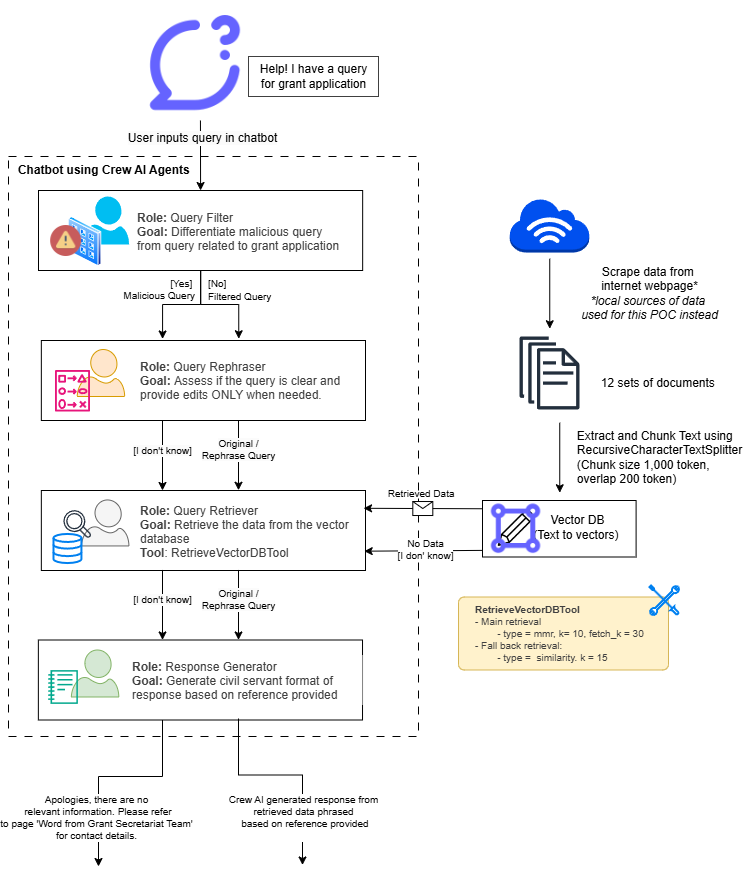
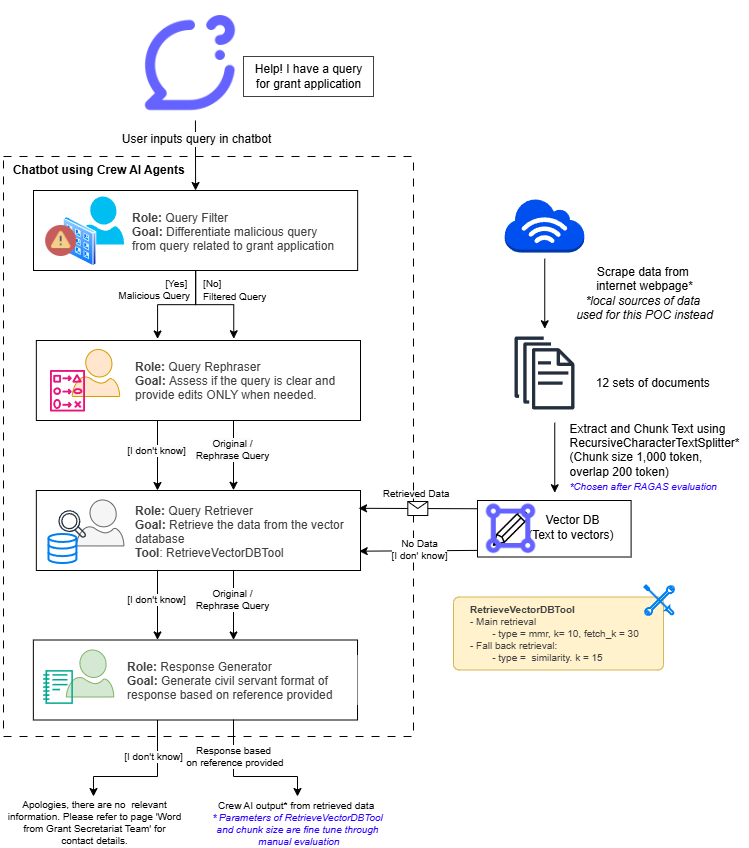
Amended the diagrams

Changed region(s): [[0.0, 0.0, 0.9826, 1.0], [0.7677, 0.3066, 0.9519, 0.3986], [0.7984, 0.4292, 0.9519, 0.4599]]

diff --git a/pages/1_About us.py b/pages/1_About us.py
@@ -34,21 +34,22 @@ with st.expander("📋 Project Scope"):
         ⚙ **Step 2: Evaluation and Selection of LLM**:
                           
         - Fine-tuning parameters of vector database such as chunk size to improve accuracy and efficiency           
-        - Using RAGAS to select the best retrieval combination (refer to more details in assessment section)
+        - Using RAGAS to select the best retrieval combination (refer to more details in "Evaluation of Retrieval Method and Chatbot" section)
                           
         🔐 **Step 3: LLM Safety and Accuracy Assurance**:
                           
+        - Prevent malicious content generation, ensure information accuracy and generate responses are replied in civil servant tone
         - Integrating Crew AI agents for safe and reliable information retrieval. The four Crew AI are   
             (a) **Query filter** - Differentiate malicious query from query related to grant applicaiton   
             (b) **Query Rephraser** - Assess of the query is clear and provide edits ONLY when needed   
             (c) **Query Retriever** - Retrieve the data from the vector database   
             (d) **Response Generator** - Generate civil servant format of response based on reference provided           
-        - Prevent malicious content generation, ensure information accuracy and generate responses are replied in civil servant tone
+        
              
         🛠 **Step 4: Quality Assurance and Testing**:
                           
         - Testing chatbot responses across various query types           
-        - Validating performance on complex and nuanced questions (refer to more details in assessment section)          
+        - Validating performance on complex and nuanced questions (refer to more details in "Evaluation of Retrieval Method and Chatbot" section)          
         - Enhancing relevance by incorporating historical FAQs           
     ''')
 
@@ -67,12 +68,24 @@ with st.expander("📊 Data Sources"):
 
     **Key Data Sources:**
     - 📄**Grant-specific documents**: Consist of 12 documents covering the grant call topics, application process, eligibility criteria, proposal template, and evaluation matrix, etc.
+    - Request For Proposal Plastic Waste Recycling And Packaging Solutions
+        - Instructions and Templates for Applicants_CTRL-plastic waste
+        - Research Proposal Template
+        - CV template
+        - Annex A Potentially Useful Datasets from USS
+        - Annex B Guidelines for the Management of Research Grants
+        -Annex C.1 Terms and Conditions
+        -Annex C.2 Addendum to Terms and Conditions
+        - Annex D Guidelines on Funding Private Sector Entities
+        - Annex E Declaration Form For Private Sector Applicant(s)
+        - Annex F IGMS Account Creation
+        - Annex G Check-List Of Documents To Prepare
     - ❓**Frequently Asked Questions (FAQs)**: This is a document where we compiled the questions that were asked and answers provided. It was used during the evaluation of the chatbot to select the retrieval method (during RAGAS ).
     The document would be eventually incorporated into the chatbot at our final step as a data source to improve response quality
              
     In a production environment, we have tested codes which can scrape NEA Grant call webpages for real-time updates of documents. For now, the POC uses locally stored grant documents to ensure reliable processing.''')
 
-with st.expander("🔍 Evaluation of LLM"):
+with st.expander("🔍 Evaluation of Retrieval Method and Chatbot"):
     st.write('''
     :red-background[**Evaluation 1: Evaluation of splitting and chunking methods**]
              
@@ -90,12 +103,11 @@ with st.expander("🔍 Evaluation of LLM"):
     This chosen combination aligns with our goal of providng accurate and reliable information by balancing performance in relevancy with minimal hallucination risk.                   
     ''')
     st.image(
-    "https://raw.githubusercontent.com/Drakreon/Grant_Application_Chatbot/main/Image/RAGAS%20evaluation.png",
-    width=650)
+    "https://raw.githubusercontent.com/Drakreon/Grant_Application_Chatbot/main/Image/RAGAS%20evaluation.png")
 
 
     st.write('''
-    :red-background[**Evaluation 2: Human Evaluation of Output from Chatbot**]
+    :red-background[**Evaluation 2: Manual Evaluation of Output from Chatbot**]
              
     The refined evaluation process for crew agent outputs involves selecting a diverse set of historical questions categorised by difficulty:
     easy, moderate, difficult and queries that are not present in the database. The queries were run through the chatbot three times to assess consistency.
@@ -107,8 +119,9 @@ with st.expander("🔍 Evaluation of LLM"):
     ''')
 
     st.image(
-    "https://raw.githubusercontent.com/Drakreon/Grant_Application_Chatbot/main/Image/Manual%20evaluation.png",
-    width=650)
+    "https://raw.githubusercontent.com/Drakreon/Grant_Application_Chatbot/main/Image/Manual%20evaluation.png")
+    st.image(
+    "https://raw.githubusercontent.com/Drakreon/Grant_Application_Chatbot/main/Image/Manual%20evaluation%20detailed.png")
 
 st.markdown(
     """ 

diff --git a/pages/2_Methodology.py b/pages/2_Methodology.py
@@ -19,9 +19,8 @@ retriever agent to search the vector database for relevant information. The resp
 the rephrased query or the retrieved data, which is ultimately presented to the user.
 
 The **right flowchart** provides an overview of the backend processes 💾, including embedded model operations and data retrieval.
-It outlines how data, such as information from previous grant calls, is scraped, processed, and stored as vector
-representations in the database. When a query is received, Crew AI agent retrieve matching vectors and forward them
-to the response generator, which, as shown in the left flowchart, produces the final output.
+It outlines how data is scraped, processed, and stored as vector representations in the database. When a processed query is received, the query retriever
+ Crew AI agent retrieve matching vectors and forward them to the response generator, which, as shown in the left flowchart, produces the final output.
 """)
 
 # st.image("Image\Flowchart for AIbootcamp.drawio.png")
